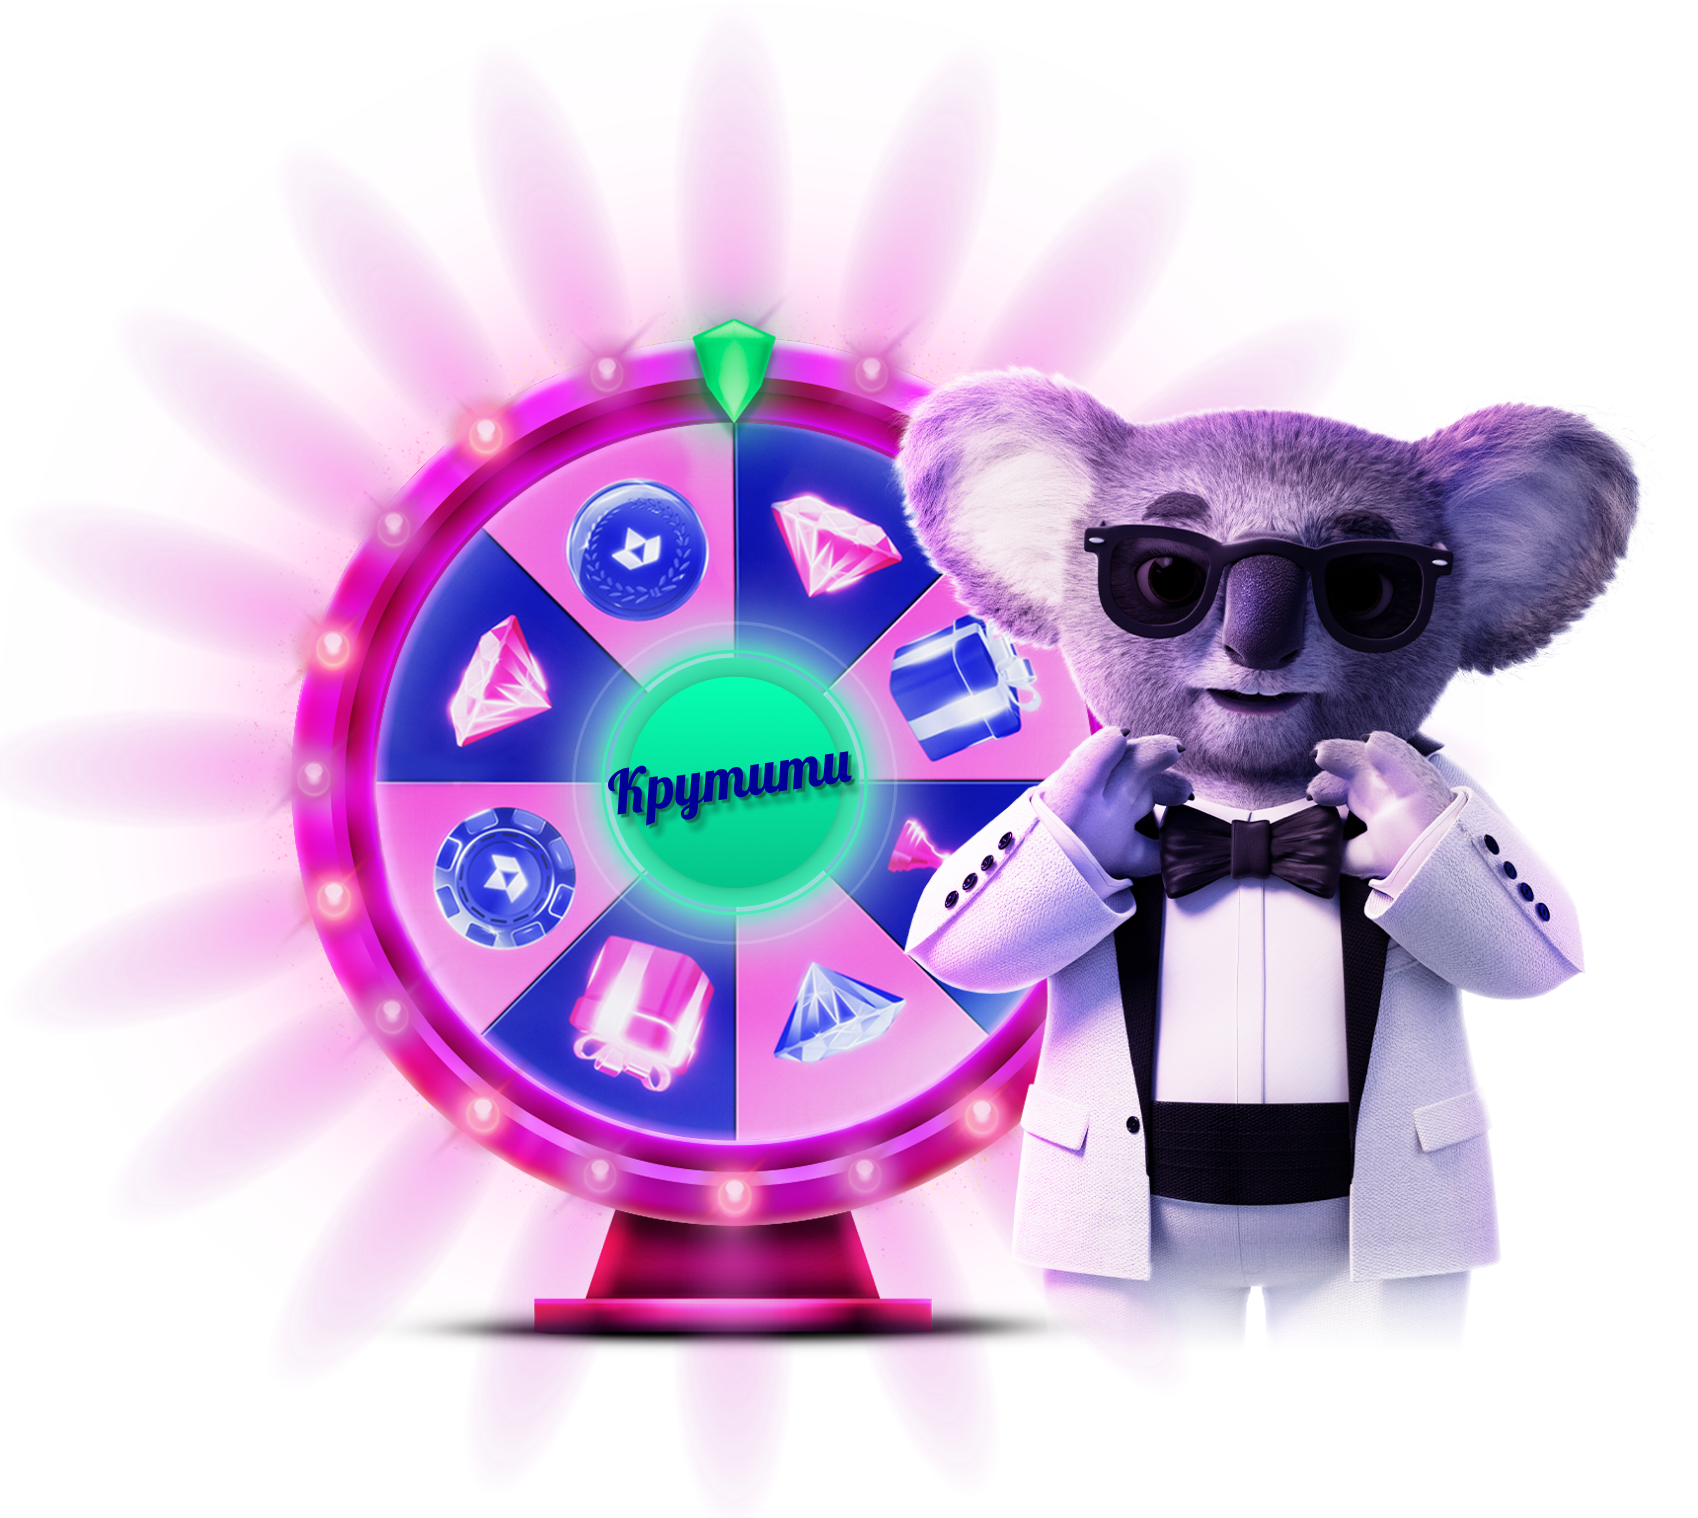
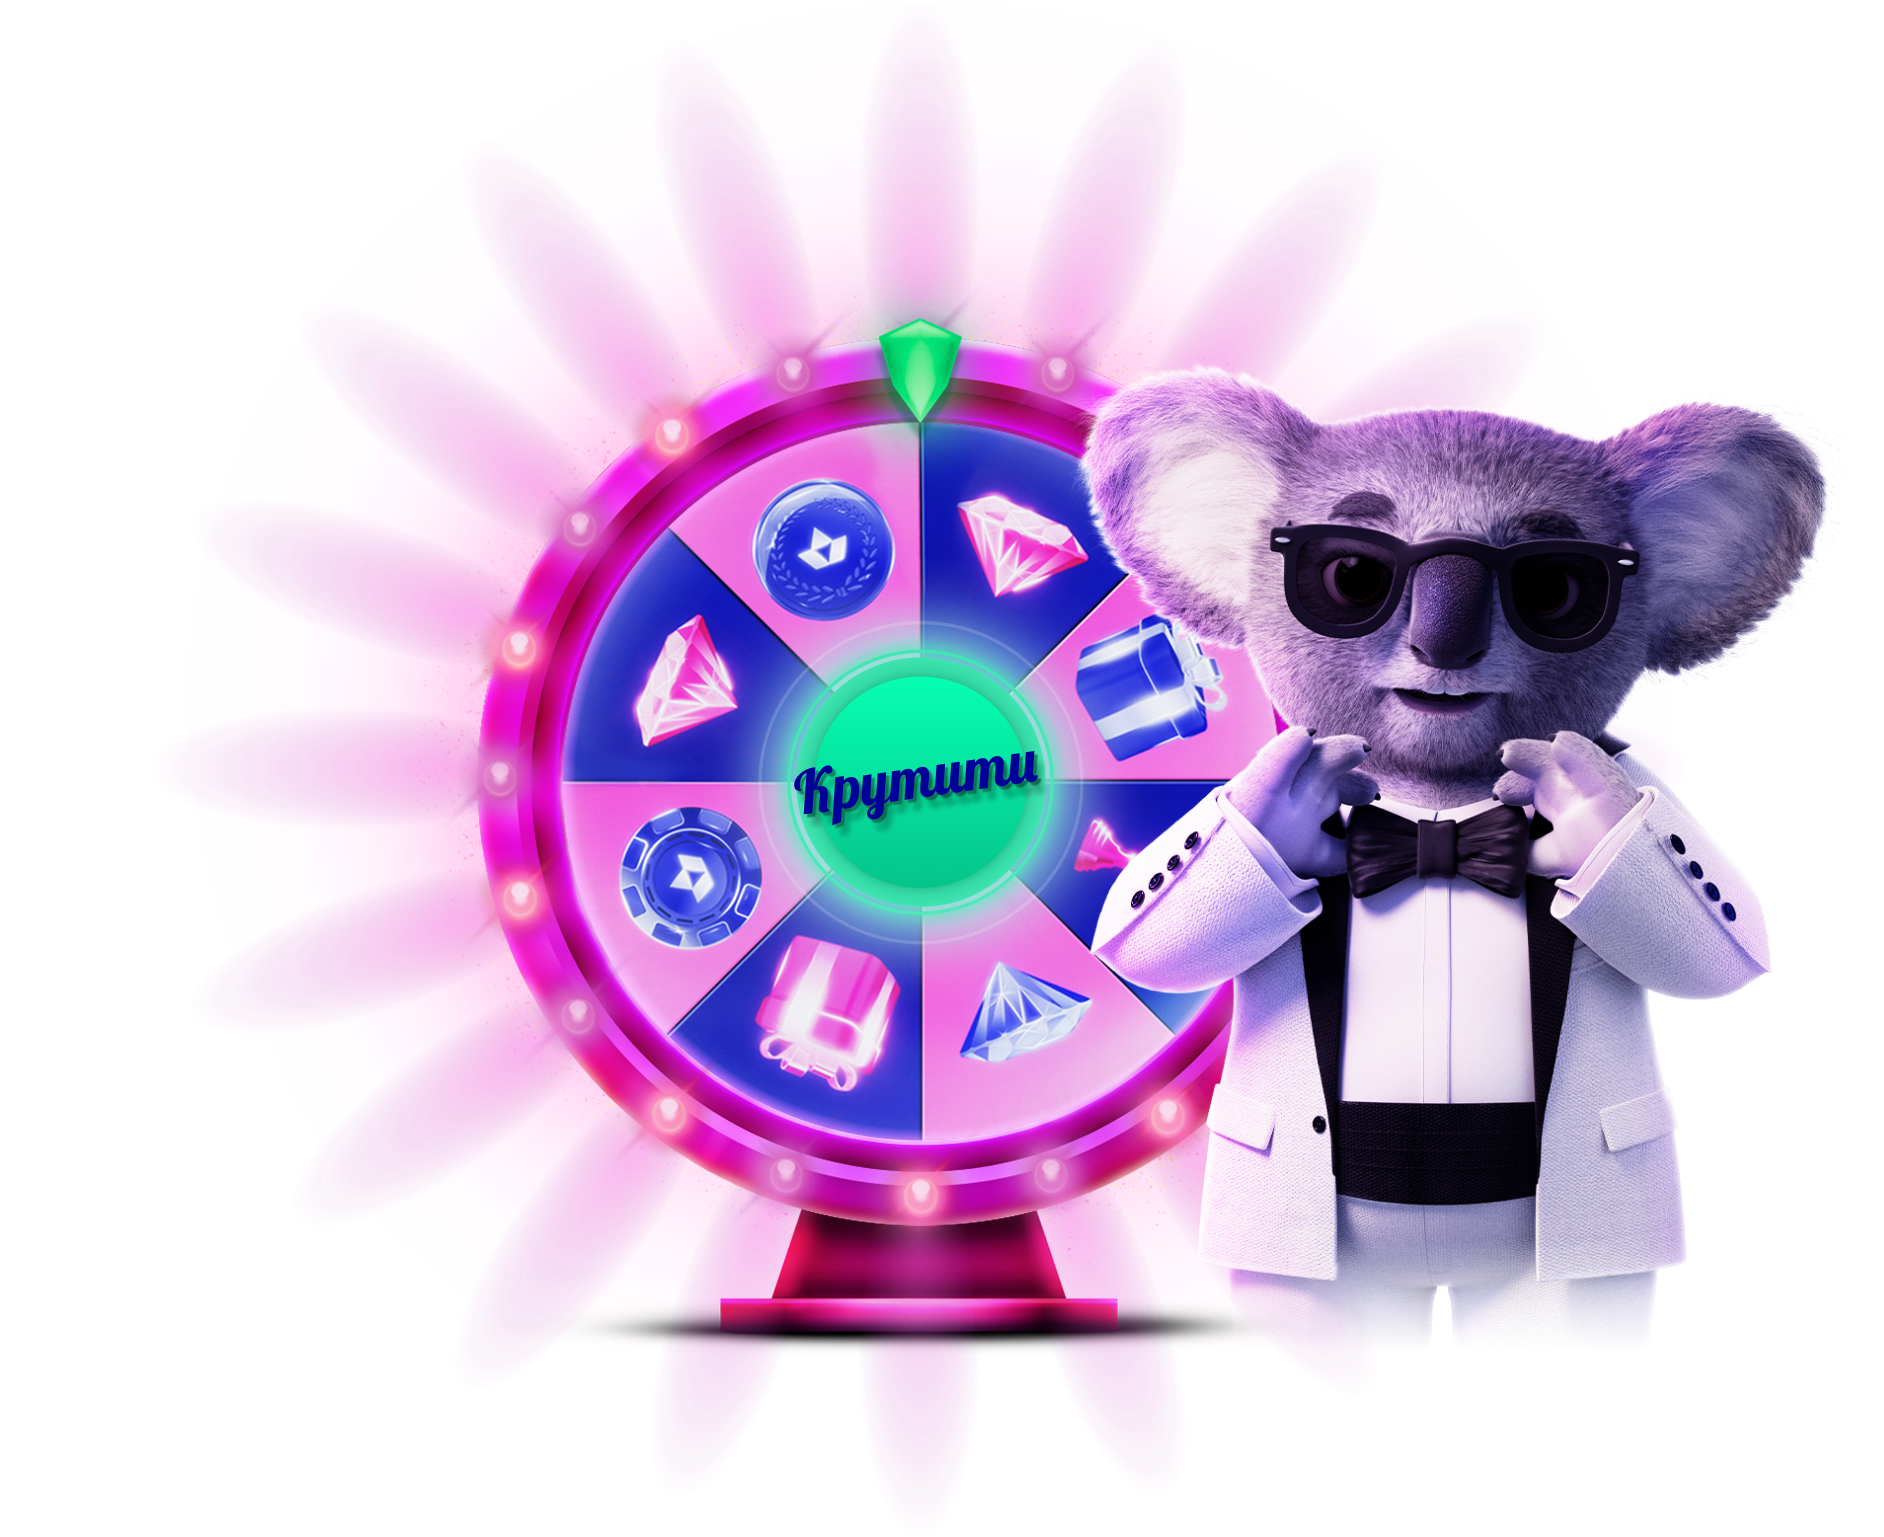
960

diff --git a/build/css/main.css b/build/css/main.css
@@ -47,13 +47,25 @@ ul, li, p, h1, h2, h3 {
   width: 100%;
   height: 100%;
   background: #000099;
+  background: grey;
 }
 .wrapper img {
   max-width: 100%;
   height: auto;
 }
 
+.pink {
+  background-color: #FF267E;
+  width: -webkit-fit-content;
+  width: -moz-fit-content;
+  width: fit-content;
+  margin: 0 auto;
+  padding: 2px 10px 0;
+  overflow: hidden;
+}
+
 .wheel {
+  margin: 0 auto;
   position: relative;
   height: calc(var(--vh, 1vh) * 100);
   width: 50%;
@@ -84,7 +96,9 @@ ul, li, p, h1, h2, h3 {
   margin: 0 auto;
 }
 .wheel__title {
-  margin-top: 82px;
+  position: relative;
+  z-index: 2;
+  margin-top: 78px;
   color: #ffffff;
   text-align: center;
   font-family: SuisseIntl-SemiBold, sans-serif;
@@ -95,36 +109,31 @@ ul, li, p, h1, h2, h3 {
   text-transform: uppercase;
 }
 .wheel__title p {
-  background-color: #FF267E;
-  width: -webkit-fit-content;
-  width: -moz-fit-content;
-  width: fit-content;
-  margin: 0 auto;
-  padding: 0 10px;
+  margin-top: 2px;
+  margin-bottom: -10px;
 }
 .wheel__sam {
   position: absolute;
-  inset: 0;
-  top: auto;
+  left: -93px;
+  bottom: -9px;
   height: 768px;
-  border: 1px dashed white;
 }
 .wheel__sam img {
   max-height: 100%;
 }
 .wheel__footer {
   position: absolute;
-  bottom: 42px;
-  width: 614px;
+  bottom: 38px;
+  width: 487px;
   left: 0;
   right: 0;
   margin: 0 auto;
   color: #ffffff;
   text-align: center;
   font-family: SuisseIntl-Regular, sans-serif;
-  font-size: 19px;
+  font-size: 14px;
   font-style: normal;
   font-weight: 400;
-  line-height: 23px;
+  line-height: 17px;
 }
[2 lines of base64/hex data omitted]

diff --git a/build/index.html b/build/index.html
@@ -1,1 +1,1 @@
-<!DOCTYPE html><html lang="ro"><head><meta charset="utf-8"><title>FAVBET</title><meta content="width=device-width, initial-scale=1" name="viewport"><link rel="shortcut icon" href="img/favicon.ico" type="image/x-icon"><link rel="stylesheet" href="css/main.css"></head><body><div class="wrapper"><div class="wheel"><div class="wheel__header"><div class="wheel__logo"><img src="./img/logo.svg" alt="favbet logo"></div><h1 class="wheel__title">Крути колесо ー <br> <p>вигравай призи*</p></h1></div><div class="wheel__sam"><picture><source media="(max-width: 1032px) and (min-height: 1032px) and (orientation: portrait)" srcset="img/sam.png"><source media="(max-width: 1279px)" srcset="img/sam-512.png"><source media="(max-width: 1440px)" srcset="img/sam-720.png"><source media="(min-width: 1441px)" srcset="img/sam-960.png"><img src="img/sam-640.png" alt="favbet"></picture></div><span class="wheel__footer">* Розіграш призів проводиться в межах акції «Колесо Сема». Загальний призовий фонд, вид та розмір бонусної пропозиції визначається та пропонується учасникам виключно на розсуд Організатора та в межах чинної Програми лояльності. Період дії акції з 11.02.2025 до 31.12.2025 року. Деталі на favbet.ua.</span></div></div><script src="js/main.js"></script></body></html>
+<!DOCTYPE html><html lang="ro"><head><meta charset="utf-8"><title>FAVBET</title><meta content="width=device-width, initial-scale=1" name="viewport"><link rel="shortcut icon" href="img/favicon.ico" type="image/x-icon"><link rel="stylesheet" href="css/main.css"></head><body><div class="wrapper"><div class="wheel"><div class="wheel__header"><div class="wheel__logo"><img src="./img/logo.svg" alt="favbet logo"></div><div class="wheel__title">Крути колесо ー<div class="pink"><p>вигравай призи*</p></div></div></div><div class="wheel__sam"><picture><source media="(max-width: 1032px) and (min-height: 1032px) and (orientation: portrait)" srcset="img/sam.png"><source media="(max-width: 1279px)" srcset="img/sam-512.png"><source media="(max-width: 1440px)" srcset="img/sam-720.png"><source media="(min-width: 1441px)" srcset="img/sam-960.png"><img src="img/sam-640.png" alt="favbet"></picture></div><span class="wheel__footer">* Розіграш призів проводиться в межах акції «Колесо Сема». Загальний призовий фонд, вид та розмір бонусної пропозиції визначається та пропонується учасникам виключно на розсуд Організатора та в межах чинної Програми лояльності. Період дії акції з 11.02.2025 до 31.12.2025 року. Деталі на favbet.ua.</span></div></div><script src="js/main.js"></script></body></html>

diff --git a/front/sass/pages/index.sass b/front/sass/pages/index.sass
@@ -4,7 +4,7 @@ $pink: #FF267E
 // $magenta: #FF267E
 // $dark-magenta: #97024C
 // $purple: #5C107D
-// $green: #05C489
+$green: #05C489
 // $yellow: #BB8531
 // $light-yellow: #FFF06D
 
@@ -18,15 +18,22 @@ $font-lobster-reg: Lobster, sans-serif
   width: 100%
   height: 100%
   background: $blue
+  background: grey
   img
     max-width: 100%
     height: auto
+.pink
+  background-color: $pink
+  width: fit-content
+  margin: 0 auto
+  padding: 2px 10px 0
+  overflow: hidden
 
 .wheel
+  margin: 0 auto //
   position: relative
   height: calc(var(--vh, 1vh) * 100)
   width: 50%
-  // width: 100%
   overflow: hidden
   background: url("../img/bg-960.jpg") no-repeat 50% 50%/cover
   @media screen and (max-width: 1440px)
@@ -43,7 +50,9 @@ $font-lobster-reg: Lobster, sans-serif
     height: 88px
     margin: 0 auto
   &__title
-    margin-top: 82px
+    position: relative
+    z-index: 2
+    margin-top: 78px
     color: $white
     text-align: center
     font-family: $font-suisse-intl-semib
@@ -53,29 +62,26 @@ $font-lobster-reg: Lobster, sans-serif
     line-height: normal
     text-transform: uppercase
     p
-      background-color: $pink
-      width: fit-content
-      margin: 0 auto
-      padding: 0 10px
+      margin-top: 2px
+      margin-bottom: -10px
   &__sam
     position: absolute
-    inset: 0
-    top: auto
+    left: -93px
+    bottom: -9px
     height: 768px
-    border: 1px dashed white
     img
       max-height: 100%
   &__footer
     position: absolute
-    bottom: 42px
-    width: 614px
+    bottom: 38px
+    width: 487px
     left: 0
     right: 0
     margin: 0 auto
     color: $white
     text-align: center
     font-family: $font-suisse-intl-reg
-    font-size: 19px
+    font-size: 14px
     font-style: normal
     font-weight: 400
-    line-height: 23px 
+    line-height: 17px 
